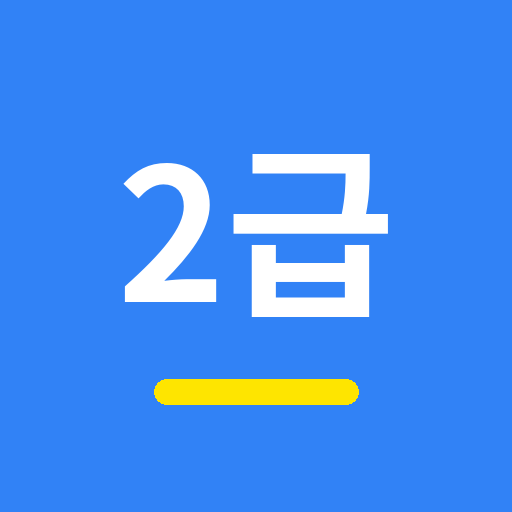
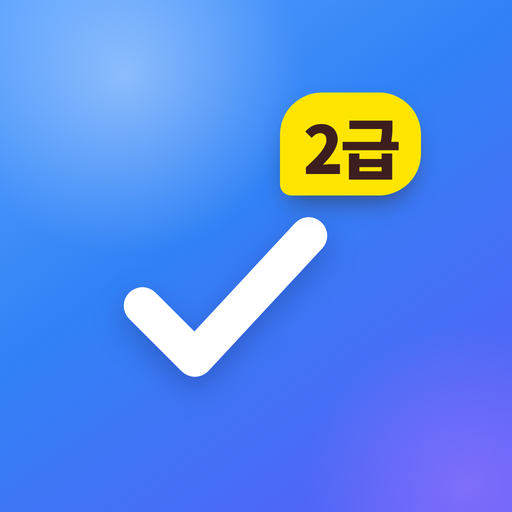
홈 화면 아이콘·이름 변경: 새 아이콘(체크+2급 말풍선), 이름 '2급 합격'
Claude-Session: https://claude.ai/code/session_01ApsQByhxyFAgY38Vzgus1u

diff --git a/index.html b/index.html
@@ -1,6 +1,6 @@
 <!doctype html>
 <html lang="ko"><head><meta charset="utf-8"><meta name="viewport" content="width=device-width,initial-scale=1,viewport-fit=cover"><meta name="theme-color" content="#2f6ff0"><style>:root{padding-top:env(safe-area-inset-top,0px)}body{margin:0}[hidden]{display:none!important}</style>
-<title>2급 진급시험 예상 기출문제</title>
+<title>2급 합격 · 승진시험 예상 기출문제</title>
 <meta name="claude:viewport-fit-sides" content="cover">
 <style>
 /* Layout: 모바일 금융앱·메신저 느낌의 단일 컬럼. 회색 바탕 위 큰 라운드 카드, 굵은 큰 제목, 하단 고정 큰 버튼, 해설은 말풍선 */
@@ -438,7 +438,7 @@ button,.row,.opt,.paper,.qbtn,.chip{position:relative;overflow:hidden}
 .cta.ghost{box-shadow:none}
 @media (prefers-reduced-motion:reduce){#splash>i,.sp-ring .pg,.shine,.sp-t span,.ripple{animation:none!important}.sp-ring .pg{stroke-dashoffset:0}::view-transition-old(root),::view-transition-new(root){animation:none}}
 </style>
-<link rel="manifest" href="manifest.webmanifest"><link rel="apple-touch-icon" href="icon-180.png"><link rel="icon" href="icon-192.png"><meta name="apple-mobile-web-app-capable" content="yes"><meta name="mobile-web-app-capable" content="yes"><meta name="apple-mobile-web-app-status-bar-style" content="black-translucent"><meta name="apple-mobile-web-app-title" content="진급시험"><link rel="preconnect" href="https://cdn.jsdelivr.net" crossorigin><link rel="stylesheet" href="https://cdn.jsdelivr.net/gh/orioncactus/pretendard@v1.3.9/dist/web/variable/pretendardvariable-dynamic-subset.min.css" media="print" onload="this.media='all'"><style>:root{--f:"Pretendard Variable",Pretendard,-apple-system,BlinkMacSystemFont,"Apple SD Gothic Neo","Noto Sans KR",sans-serif!important;--num:"Pretendard Variable",Pretendard,-apple-system,sans-serif!important}</style>
+<link rel="manifest" href="manifest.webmanifest?v=202611052115"><link rel="apple-touch-icon" href="icon-180.png?v=202611052115"><link rel="icon" href="favicon-32.png" sizes="32x32"><link rel="icon" href="icon-192.png" sizes="192x192"><meta name="apple-mobile-web-app-capable" content="yes"><meta name="mobile-web-app-capable" content="yes"><meta name="apple-mobile-web-app-status-bar-style" content="black-translucent"><meta name="apple-mobile-web-app-title" content="2급 합격"><meta name="application-name" content="2급 합격"><link rel="preconnect" href="https://cdn.jsdelivr.net" crossorigin><link rel="stylesheet" href="https://cdn.jsdelivr.net/gh/orioncactus/pretendard@v1.3.9/dist/web/variable/pretendardvariable-dynamic-subset.min.css" media="print" onload="this.media='all'"><style>:root{--f:"Pretendard Variable",Pretendard,-apple-system,BlinkMacSystemFont,"Apple SD Gothic Neo","Noto Sans KR",sans-serif!important;--num:"Pretendard Variable",Pretendard,-apple-system,sans-serif!important}</style>
 <style>
 /* ── v10 프리미엄 레이어 ── */
 /* 1. 히어로: 토스풍 블루 그라데이션 카드 */
@@ -743,7 +743,7 @@ html[data-fs="xl"] .qtext{font-size:23px}html[data-fs="xl"] .opt{font-size:19px}
 <nav class="tabbar" id="tabbar" hidden aria-label="메뉴"></nav>
 <div class="ov" id="ov" hidden></div>
 <noscript><div class="wrap" style="padding:40px 20px">이 페이지는 크롬·사파리 같은 브라우저에서 열어 주세요.</div></noscript>
-<script>window.BUILD="202611052104"</script>
-<script src="questions.js?v=202611052104"></script>
-<script src="app.js?v=202611052104"></script>
+<script>window.BUILD="202611052115"</script>
+<script src="questions.js?v=202611052115"></script>
+<script src="app.js?v=202611052115"></script>
 </body></html>

diff --git a/sw.js b/sw.js
@@ -1,5 +1,5 @@
 // 오프라인 지원: 네트워크 우선, 실패하면 캐시
-const C='promo2-202611052104';
+const C='promo2-202611052115';
 self.addEventListener('install',e=>{ self.skipWaiting(); e.waitUntil(caches.open(C).then(c=>c.addAll(['./','index.html','manifest.webmanifest','icon-192.png']).catch(()=>{}))); });
 self.addEventListener('activate',e=>{ e.waitUntil(self.clients.claim()); });
 self.addEventListener('fetch',e=>{
